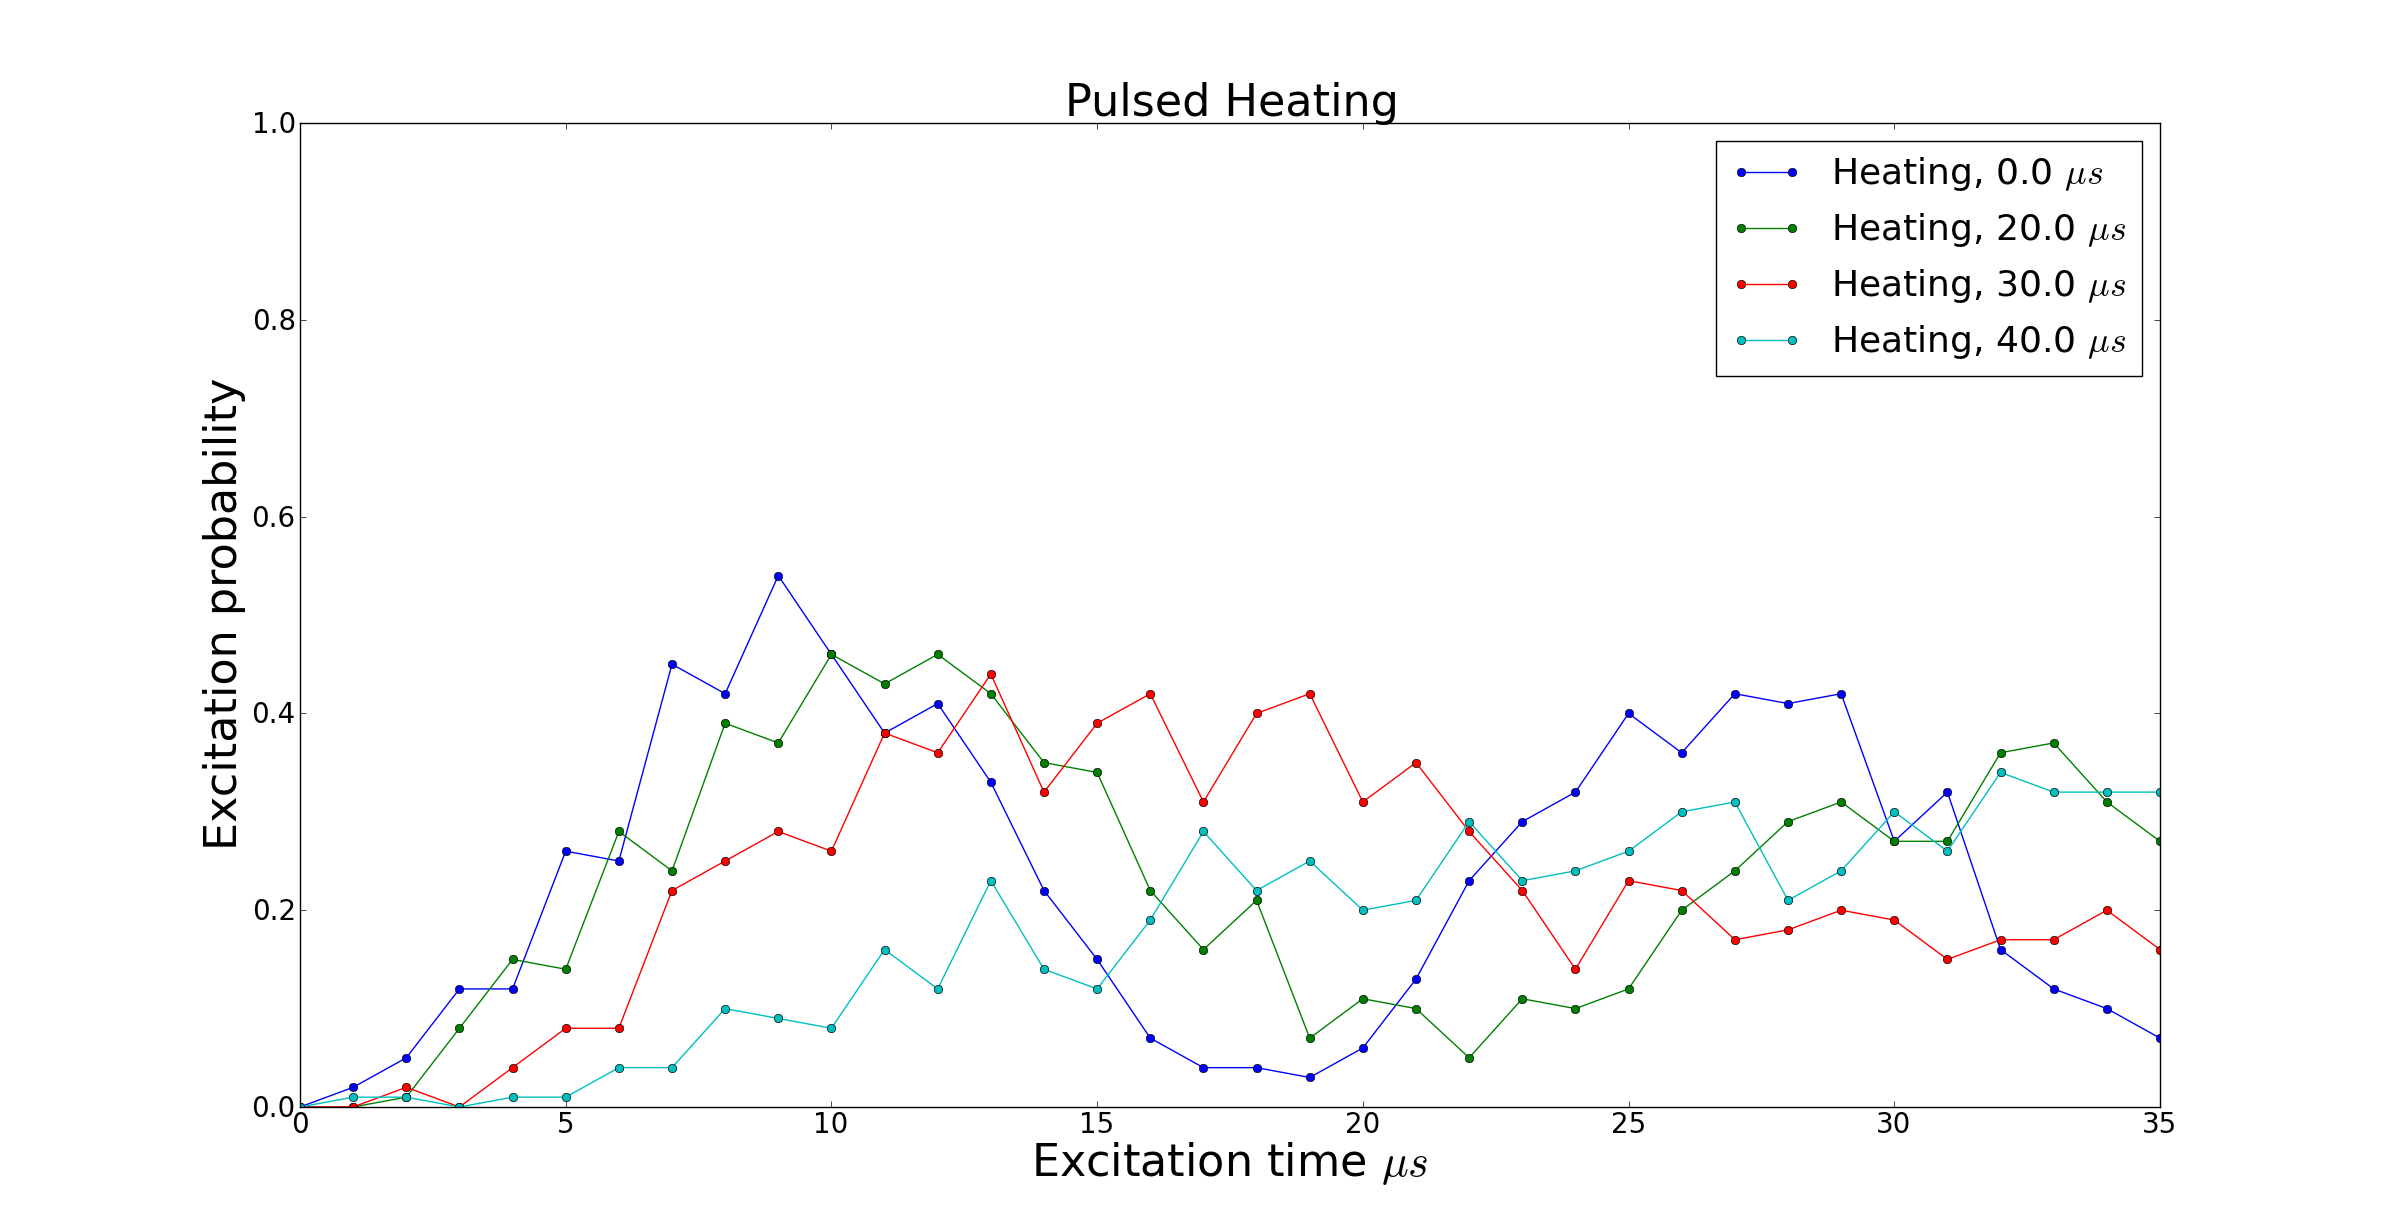
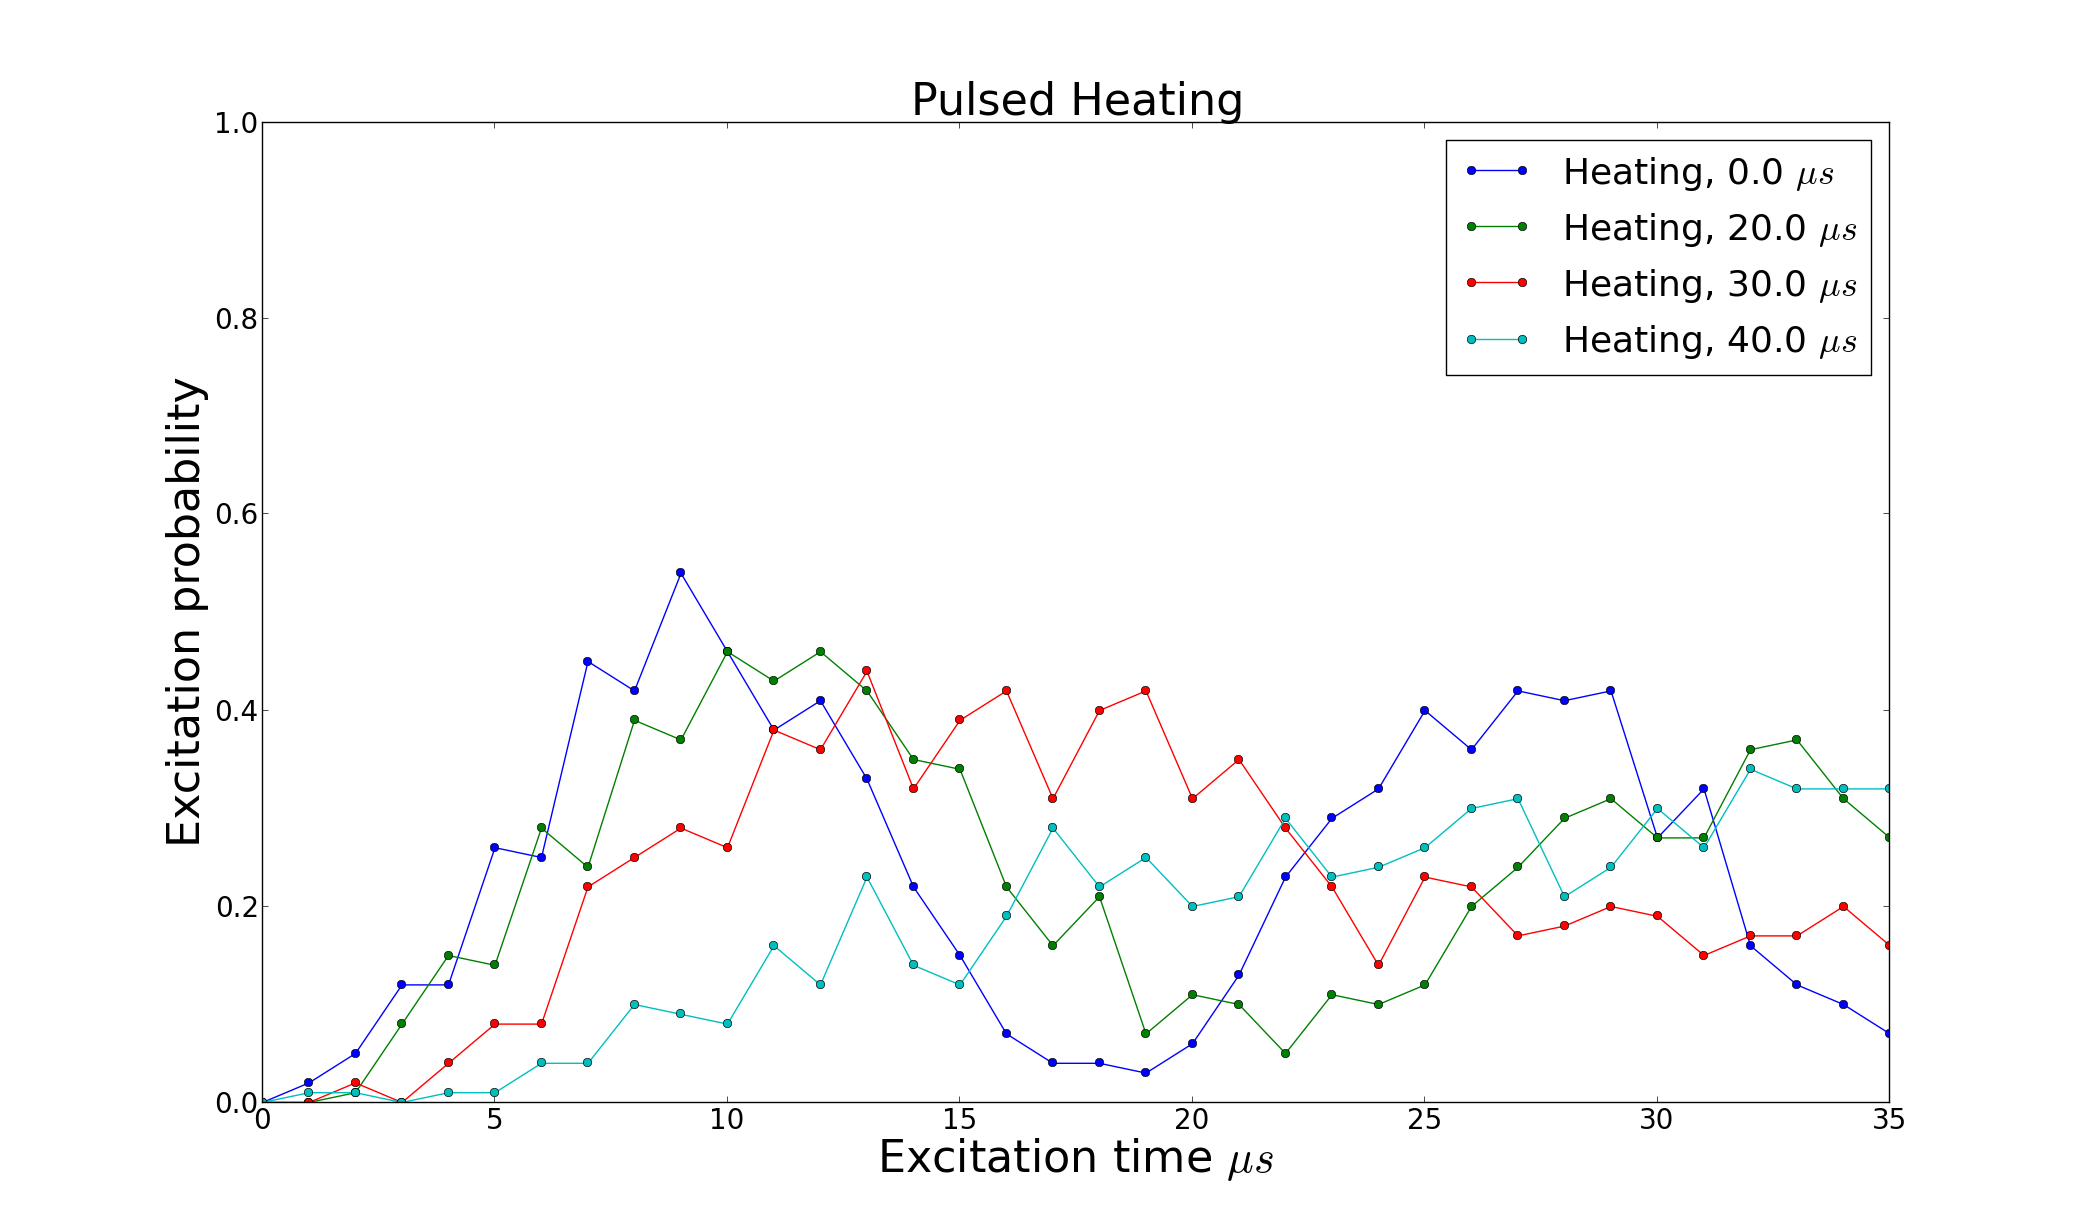
separate plots for heating

diff --git a/scripts/dataAnalysis/EnergyTransport/2013June28/combined.py b/scripts/dataAnalysis/EnergyTransport/2013June28/combined.py
@@ -1,24 +1,24 @@
 import labrad
 from matplotlib import pyplot
 
-info = [('2013Jun28', '1924_31'),
+info = [('2013Jun28', '1924_31', 'b'),
 #         ('2013Jun28', '1925_51'),
-        ('2013Jun28', '1926_42'),
-        ('2013Jun28', '1927_29'),
-        ('2013Jun28', '1928_29'),
+        ('2013Jun28', '1926_42', 'g'),
+        ('2013Jun28', '1927_29', 'r'),
+        ('2013Jun28', '1928_29', 'c'),
         
         ]
 
 cxn = labrad.connect()
 dv = cxn.data_vault
 
-for date, datasetName in info:
+for date, datasetName, color in info:
     dv.cd( ['','Experiments','Blue Heat RabiFlopping',date,datasetName])
     dv.open(1)
     data = dv.get().asarray
     times, probs = data.transpose()
     heating_us = dv.get_parameter('Heating.blue_heating_duration')['us']
-    pyplot.plot(times, probs, 'o-', label = r'Heating, {0} $\mu s$'.format(heating_us))
+    pyplot.plot(times, probs, 'o-', label = r'Heating, {0} $\mu s$'.format(heating_us), color = color)
 
 pyplot.title('Pulsed Heating', fontsize = 32)
 pyplot.xlabel(u'Excitation time $\mu s$', fontsize = 32)
